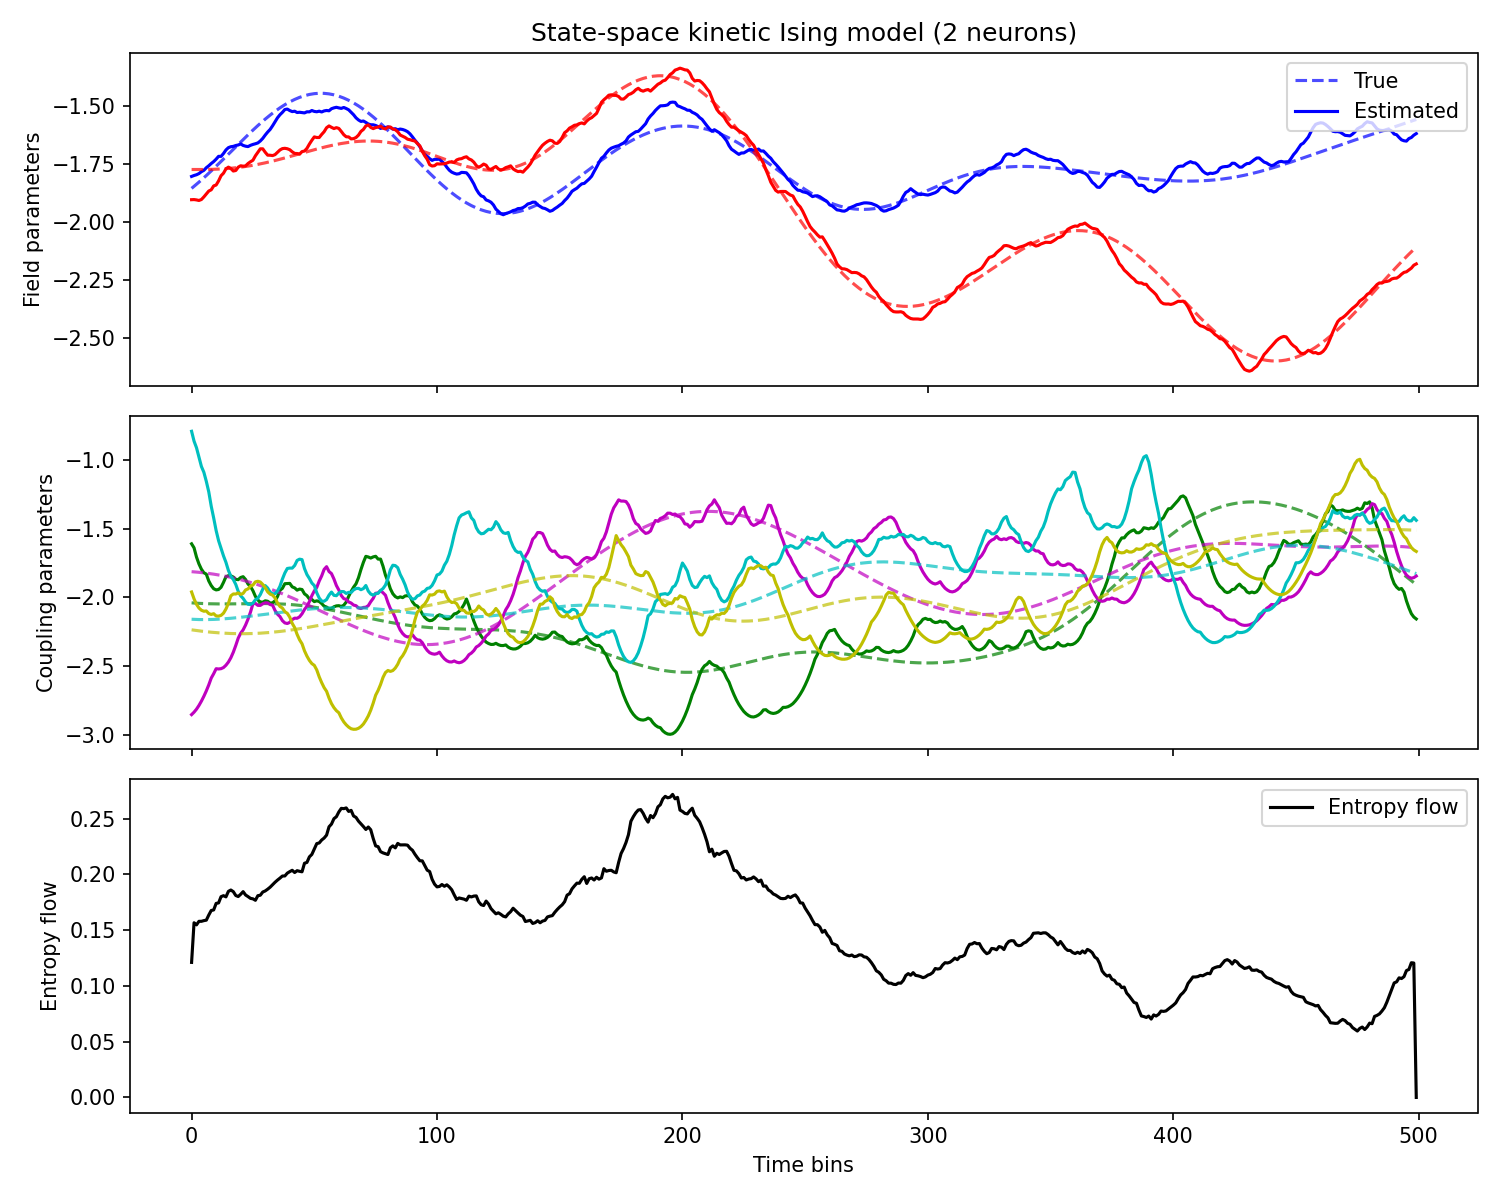
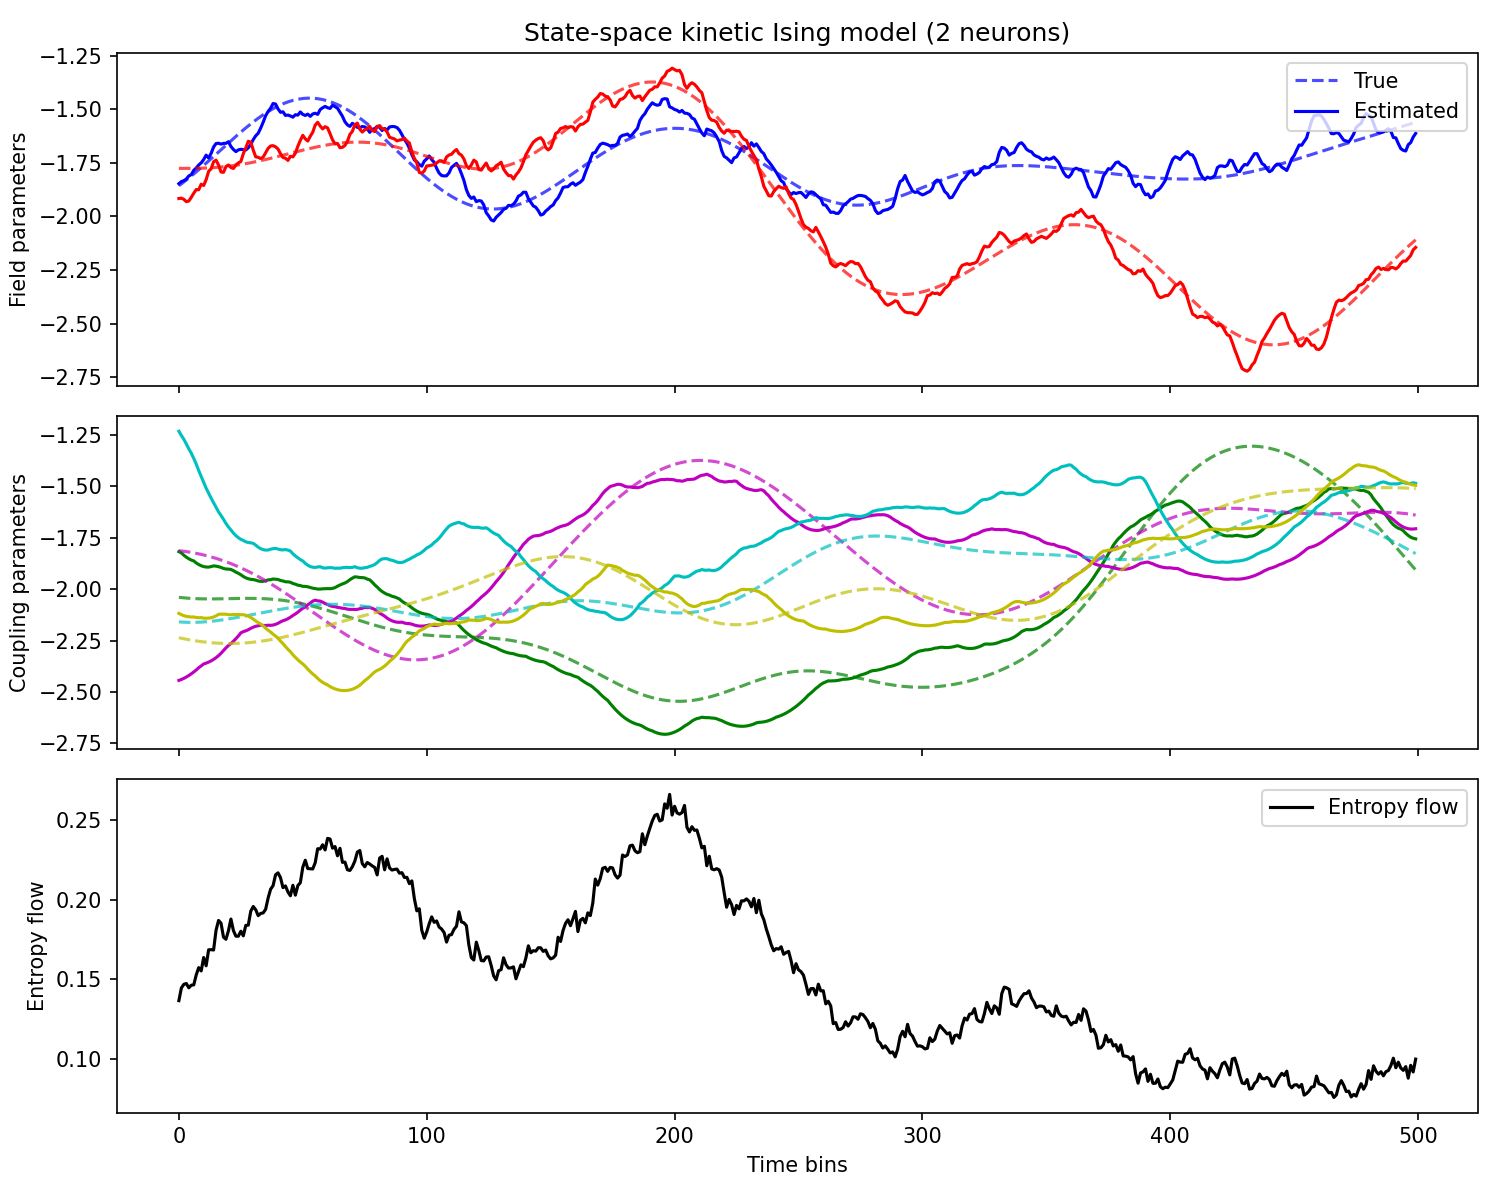
Fix off-by-one in entropy flow loop to include last time step
The loop in calculate_entropy_flow ran over range(T-1), leaving the
final time step as zeros. Changed to range(T) since theta_s and m_p
are available for all T steps. Updated expected test values accordingly.

diff --git a/testing.py b/testing.py
@@ -67,9 +67,9 @@ EXPECTED_MLLK_SINGLE_NEURON = -142.615633
 EXPECTED_MLLK_SINGLE_TRIAL = -17.170574
 
 # Expected Entropy Flow Values (diagonal Q, T=20, R=20, N=3)
-EXPECTED_TOTAL_FORWARD_ENTROPY = 10.716199
-EXPECTED_TOTAL_REVERSE_ENTROPY = 13.394292
-EXPECTED_TOTAL_NET_ENTROPY_FLOW = 2.678093
+EXPECTED_TOTAL_FORWARD_ENTROPY = 11.493761
+EXPECTED_TOTAL_REVERSE_ENTROPY = 14.172967
+EXPECTED_TOTAL_NET_ENTROPY_FLOW = 2.679206
 
 
 def generate_test_data(T, R, N, theta_seed=DEFAULT_THETA_SEED,
@@ -283,7 +283,7 @@ class TestEstimator(unittest.TestCase):
                         "Forward conditional entropy should be non-negative")
 
         # Check spike probabilities are in [0, 1]
-        active_M = M[:self.T - 1]  # Only T-1 time steps have computed values
+        active_M = M  # All T time steps have computed values
         self.assertTrue(np.all((active_M >= 0) & (active_M <= 1)),
                         "Mean-field spike probabilities should be in [0, 1]")
 

diff --git a/example_kinetic.py b/example_kinetic.py
@@ -61,9 +61,8 @@ import numpy as np
 import __init__  # From outside this folder, this would be 'import ssll_kinetic'
 
 # Run the EM algorithm!
-emd = __init__.run(spikes, max_iter=100, mstep=True)
 # Scalar Q (isotropic): Q^i = q * I for each neuron
-#emd = __init__.run(spikes, max_iter=100, state_cov=0.5)
+emd = __init__.run(spikes, max_iter=100, state_cov=0.5)
 # Diagonal Q: Q^i = diag(v) for each neuron
 #emd = __init__.run(spikes, max_iter=100, state_cov=0.5*np.ones(N+1))
 # Full Q: Q^i updated as full matrix

diff --git a/macro.py b/macro.py
@@ -376,7 +376,7 @@ def calculate_entropy_flow(emd):
     sf_bath = np.zeros((emd.T, emd.N))
     sr_bath = np.zeros((emd.T, emd.N))
     mp = np.mean(emd.spikes, axis=(0, 1))
-    for t in range(emd.T - 1):
+    for t in range(emd.T):
         m_p = mp if t == 0 else m
         THETA_st = emd.theta_s[t]
         m = computation_m(THETA_st, m_p)
